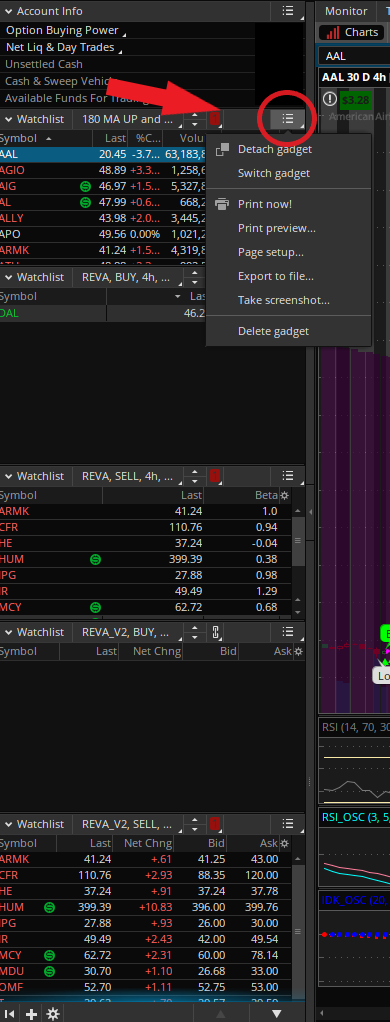
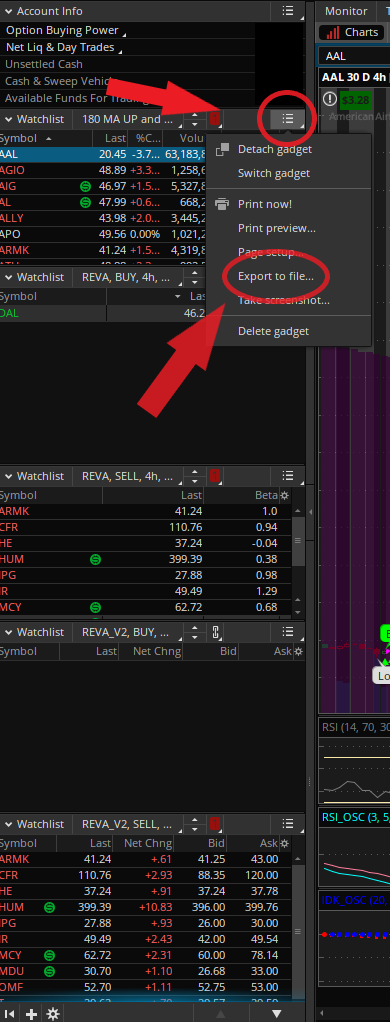
commit

Changed region(s): [[0.3692, 0.2427, 0.8615, 0.4247]]

diff --git a/main.py b/main.py
@@ -59,17 +59,21 @@ class AutoExport:
 
     def getWatchlist(self):
 
-        pyautogui.click(282, 144)
+        # MOVES TO WATCHLIST HAMBURGER ICON AND CLICKS
+        pyautogui.click(282, 144) # ABSOLUTE
 
         time.sleep(self.delay)
 
-        pyautogui.move(0, 155)
+        # MOVES DOWN DROPDOWN LIST TO Export to file... TAB
+        pyautogui.move(0, 155) # RELATIVE
 
         pyautogui.click()
 
         time.sleep(self.delay)
 
-        pyautogui.move(500, 215)
+        # MOVES OVER TO THE Save BUTTON ON THE FILE EXPLORER TO SAVE WATCHLIST.
+        # IN THE FILE EXPLORER BEFORE ANYTHING ELSE, CHANGE YOUR DIRECTORY TO YOUR WORKING DIRECTORY. THIS WILL BE THE NEW DEFAULT DIRECTORY FOR NOW ON.
+        pyautogui.move(500, 215) # RELATIVE
 
         time.sleep(self.delay)
 
@@ -101,7 +105,7 @@ class AutoExport:
             print("SYMBOLS EXTRACTED FROM WATCHLIST!\n")
 
             # MOVE CURSOR TO WATCHLIST AND CLICK ON TOP MOST SYMBOL IN LIST
-            pyautogui.click(150, 174)
+            pyautogui.click(150, 174) # ABSOLUTE
 
             # CHECK WHERE WE ARE IN ITERATION, AND ARROW DOWN IF NEED BE
 
@@ -170,32 +174,32 @@ class AutoExport:
         while self.watchlist_length != 0 and self.no_error:
 
             # show report
-            pyautogui.rightClick(start_x, start_y)
+            pyautogui.rightClick(start_x, start_y) # ABSOLUTE
 
             time.sleep(self.delay)
 
-            pyautogui.move(30, 90)
+            pyautogui.move(30, 90) # RELATIVE
 
             time.sleep(self.delay + 0.25)
 
             pyautogui.click()
 
             # export
-            pyautogui.move(520, 40)
+            pyautogui.move(520, 40) # RELATIVE
 
             time.sleep(self.delay)
 
             pyautogui.click()
 
             # save
-            pyautogui.move(-160, -90)
+            pyautogui.move(-160, -90) # RELATIVE
 
             time.sleep(self.delay)
 
             pyautogui.click()
 
             # # overwrite
-            # pyautogui.move(-85, -575)
+            # pyautogui.move(-85, -575) # RELATIVE
 
             # time.sleep(self.delay)
 
@@ -204,7 +208,7 @@ class AutoExport:
             time.sleep(self.delay)
 
             # close
-            pyautogui.move(200, 100)
+            pyautogui.move(200, 100) # RELATIVE
 
             time.sleep(self.delay)
 

diff --git a/README.md b/README.md
@@ -1,13 +1,16 @@
 # TOS Auto Export
+
 This program allows you to auto export strategy reports from the TDAmeritrades Thinkorswim desktop platform.
 
 ## Getting Started
+
 This program has only been tested on Windows OS.
 
 You will need the Thinkorswim desktop application, for the program is created for this application specifically.
 The program uses pyautogui to automate native keyboard and mouse functionalities.
 
 ### Prerequisites
+
 Virtual Env: Pipenv [OPTIONAL]
 
 Dependencies: pyautogui, playsound, keyboard
@@ -21,22 +24,79 @@ Language: Python 3.8+
 1. Go into your thinkscript editor for the strategy of your choice and plot a SMA or anything that will plot a line, and multiply it by 2 or more. (See image below)
 2. Once entered, apply and save.
 
-![Alt text](/img/thinkscript_editor_add_sma.png "")
+![Alt text](/img/thinkscript_editor_add_sma.png)
 
 3. Once back at the main screen, go to your chart where you are displaying the strategy that you just added the SMA line to. Notice how high it is above the actual candles. Thats what we want. (See image below)
 
-![Alt text](/img/sma_line.png "")
+![Alt text](/img/sma_line.png)
 
 4. Next, double click on the SMA line, and a customizing popup will display. Click on the plots dropdown, then click on the SMA tab. The image below is what should be displayed.
 
-![Alt text](/img/customize_sma_line.png "")
+![Alt text](/img/customize_sma_line.png)
 
 5. Next, we need to change the draw as display, which changes how the plot is shown on the chart.
-6. We need to change this to a bar/histogram that covers the entire chart. (See image below)
+6. We need to change this to a bar graph that covers the entire chart. (See image below)
 
-![Alt text](/img/customize_sma_line_to_cover.png "")
+![Alt text](/img/customize_sma_line_to_cover.png)
 
 7. Click apply, and save.
 8. You now should have something like the image below.
 
-![Alt text](/img/basic_chart_cover.png "")
+![Alt text](/img/basic_chart_cover.png)
+
+### Getting coordinates for key locations based on your screen size
+
+- There are key locations that you must obtain so the program knows where to send the cursor.
+- The images below will show the the locations.
+- There are two types of coordinates you will need. Relative and Absolute.
+
+  1. Relative - x, y coordinates are relative to where your mouse cursor currently is located.
+  2. Absolute - x, y coordinates are not relative to your mouse cursor and will go to the precise screen location specified.
+
+- All of these coordinates will need to be set in accordance to where they are needed in the program. The program has comments throughout to help you locate theses areas.
+
+1. First, you will need the absolute coordinates for the watchlist dropdown hamburger icon and relative coordinates for the Export to file... [Hamburger icon > Export to file... tab]
+
+![Alt text](/img/sidebar_export_watchlist.png)
+
+2. In the file explorer that pops up after you click the Export to file..., get the relative coordinates for the save button. Make sure you change the directory to your working directory before saving. This will set the working directory as the default so you don't have to change it everytime.
+
+![Alt text](/img/export_watchlist_to_local.png)
+
+3. After that, you need the the absolute coordinates for the top most symbol in your watchlist. Always make sure that your watchlist is scrolled all the way to the top before you run the program, or you won't export all the files in the watchlist.
+
+![Alt text](/img/watchlist_first_row_click.png)
+
+4. Next, you will need absolute coordinates to any location within the red box below.
+
+![Alt text](/img/chart_covered.png)
+
+5. This dropdown propegates when you right click on the chart only where the SMA graph is covering the chart. You will need the relative coordinates for the Show report tab.
+
+![Alt text](/img/show_report_dropdown.png)
+
+6. You will need the relative coordinates for the Export File button. [Show report tab > Export File button]
+
+![Alt text](/img/export_strategy_report_button.png)
+
+7. You will need the relative coordinates for the Save button. All files will be downloaded to your documents folder by default. The program will automatically move each file from there to your csv_files directory in your working folder. [Export File button > Save button]
+
+![Alt text](/img/save_export_to_local.png)
+
+8. Next, we need the relative coordinates for the Close button. [Save button > Close Button]
+
+![Alt text](/img/close_export_strategy.png)
+
+9. Once closed, the program will automatically arrow down to the next symbol in the watchlist.
+
+![Alt text](/img/watchlist_arrow_down_to_next_row.png)
+
+10. This process will continue until it reaches the final symbol in the watchlist.
+
+### What if theres an error?
+
+- Well, the program can handle that. Just restart the program, and make sure that the watchlist is all the way to the top, and the program will automatically scroll down to where the program left off.
+
+- If there is an error, an alert sound will trigger, all remaining strategy reports located in the users document folder will be deleted, and the error message will display in your terminal. 
+
+- Most common error is when there is a missed export, due to either the user moving the mouse or Thinkorswim not loading charts fast enough, or not at all.
